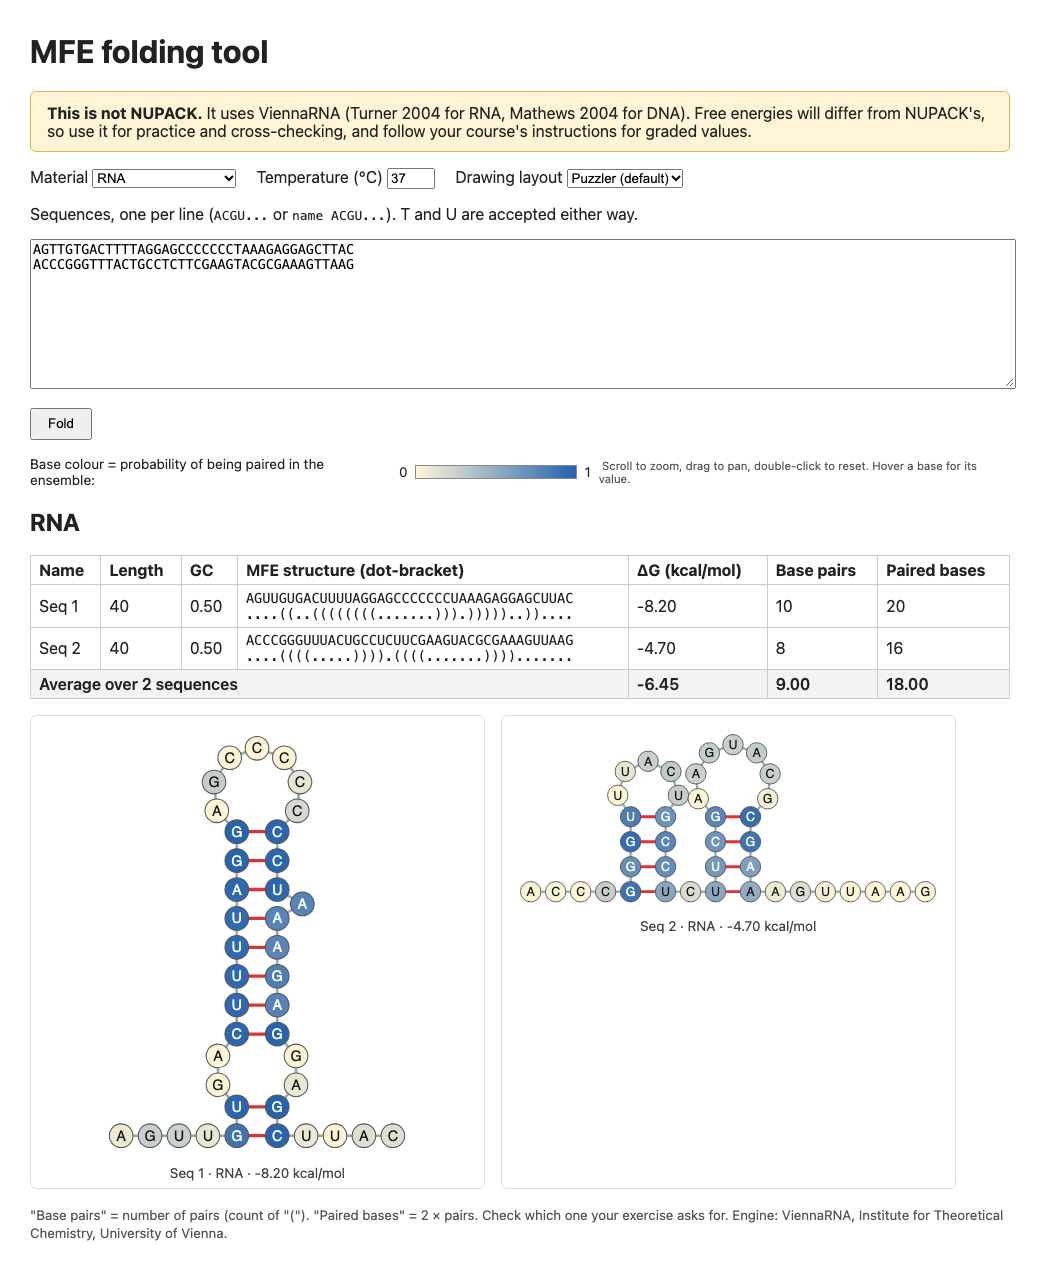
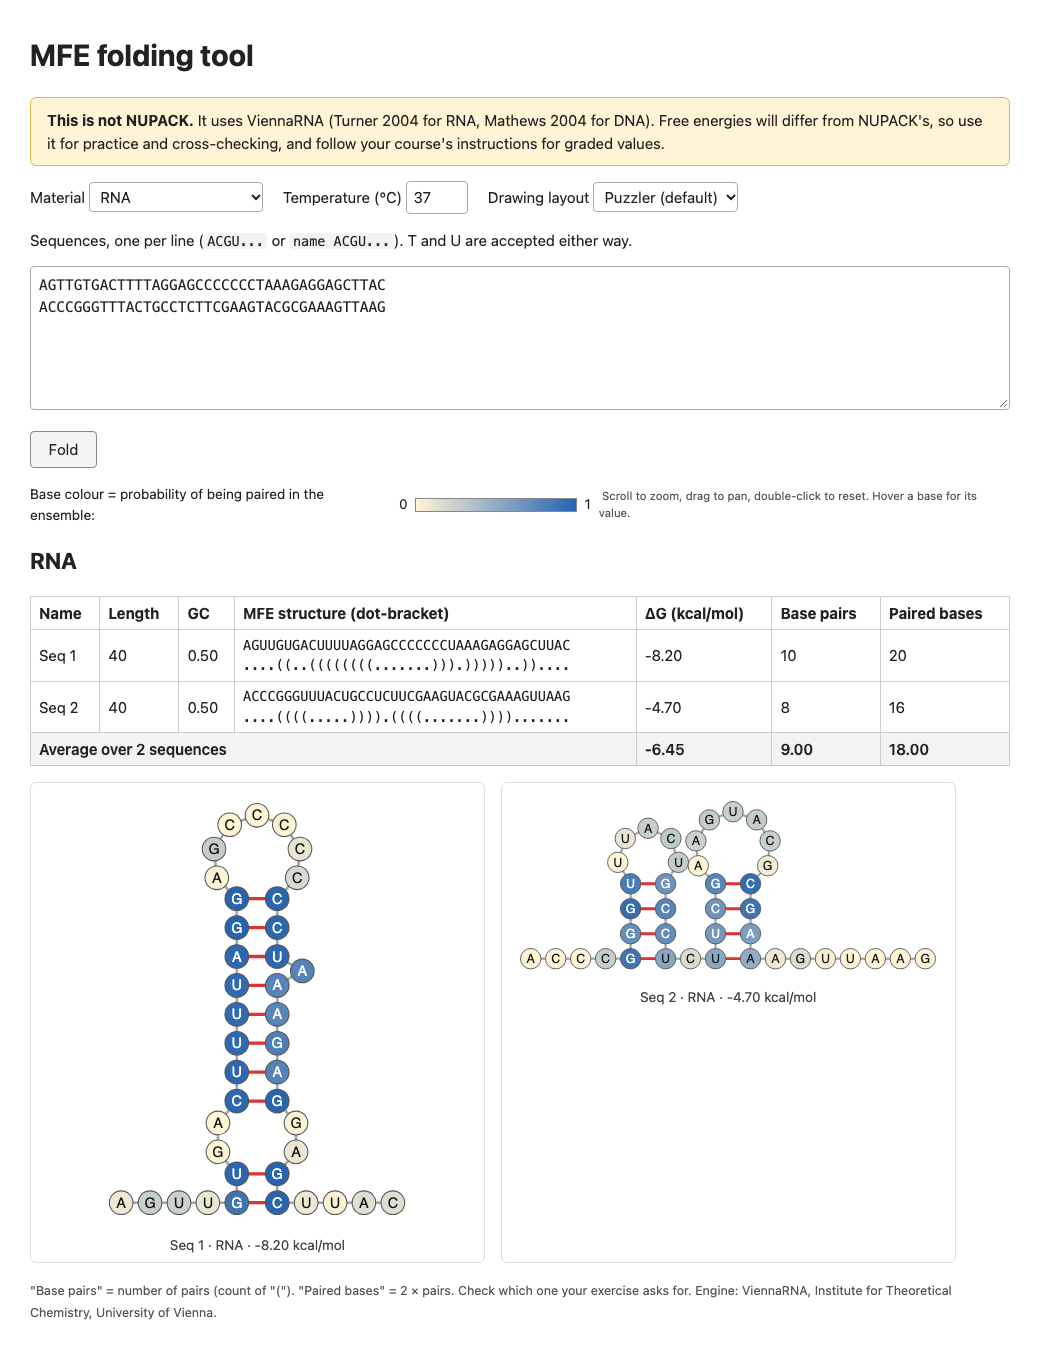
Unify fonts: form controls inherit page font, monospace via one variable
Selects, inputs, buttons and the textarea used browser-default small fonts
next to 16px page text (obvious in Safari). Retake README screenshot.

diff --git a/app.py b/app.py
@@ -168,15 +168,20 @@ PAGE = """<!doctype html>
 <meta name="viewport" content="width=device-width, initial-scale=1">
 <title>MFE folding (ViennaRNA)</title>
 <style>
- body{font-family:system-ui,sans-serif;max-width:980px;margin:2rem auto;padding:0 1rem;color:#222}
+ :root{--mono:ui-monospace,SFMono-Regular,Menlo,Consolas,monospace}
+ body{font-family:system-ui,-apple-system,"Segoe UI",Roboto,sans-serif;font-size:15px;line-height:1.5;max-width:980px;margin:2rem auto;padding:0 1rem;color:#222}
+ select,input,button,textarea{font:inherit;color:inherit}
+ select,input[type=text],input:not([type]){padding:.25rem .4rem;border:1px solid #aaa;border-radius:4px;background:#fff}
+ code{font-family:var(--mono);font-size:.9em;background:#f3f3f3;padding:0 .25em;border-radius:3px}
  .warn{background:#fff4d6;border:1px solid #e0b84c;padding:.7rem 1rem;border-radius:6px}
  .err{background:#fde2e2;border:1px solid #d66;padding:.5rem 1rem;border-radius:6px;margin:.5rem 0}
- textarea{width:100%;height:9rem;font-family:ui-monospace,monospace}
+ textarea{width:100%;height:9rem;font-family:var(--mono);font-size:.9rem;padding:.5rem;border:1px solid #aaa;border-radius:4px;box-sizing:border-box}
  table{border-collapse:collapse;width:100%;margin-top:1rem}
  th,td{border:1px solid #ccc;padding:.3rem .5rem;text-align:left}
- td.m{font-family:ui-monospace,monospace;font-size:.85rem;word-break:break-all}
+ td.m{font-family:var(--mono);font-size:.85rem;word-break:break-all}
  tr.avg td{font-weight:600;background:#f3f3f3}
- label{margin-right:1rem} button{padding:.4rem 1rem}
+ label{margin-right:1rem} button{padding:.4rem 1.1rem;border:1px solid #888;border-radius:4px;background:#f4f4f4;cursor:pointer}
+ button:hover{background:#e8e8e8}
  small{color:#555}
  .figs{display:flex;flex-wrap:wrap;gap:1rem;margin-top:1rem}
  figure{margin:0;border:1px solid #ddd;border-radius:6px;padding:.4rem;text-align:center;width:min(100%,440px)}
